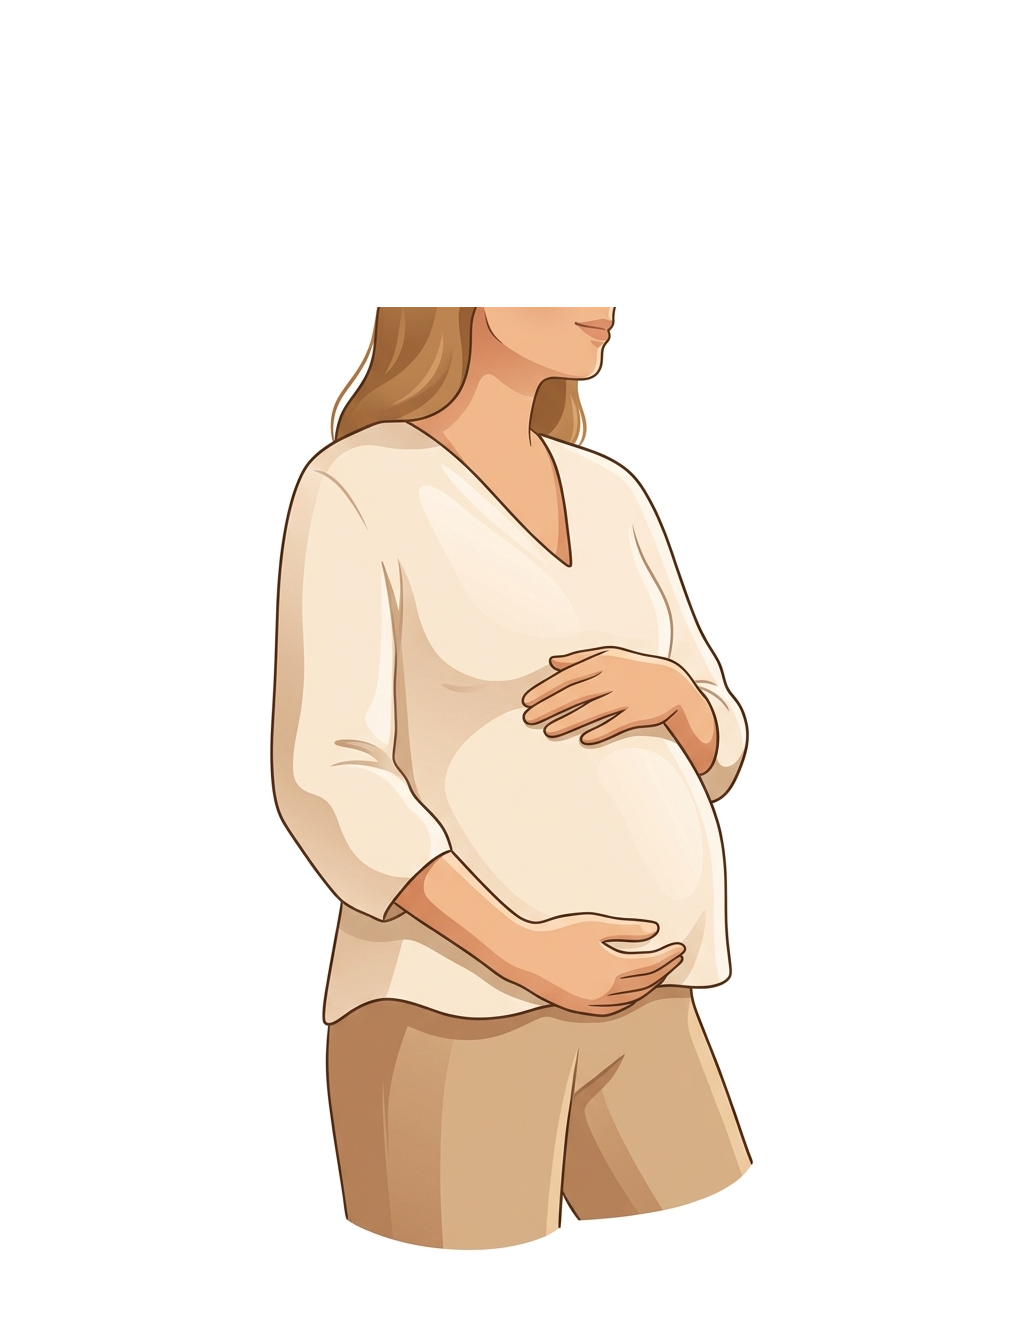
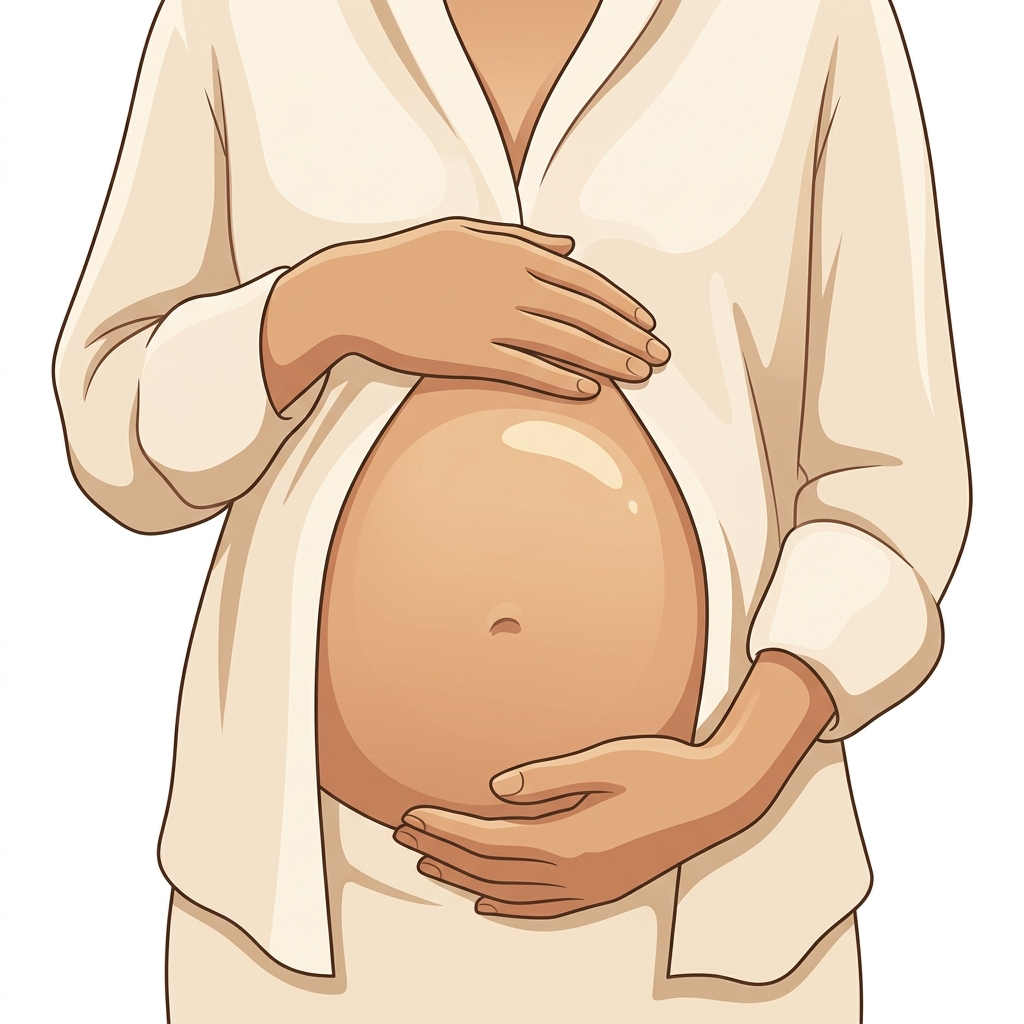
Hero-gestante: nova versão sem rosto (só barriga + mãos)
Bia decidiu trocar a composição inteira pra evitar o corte do rosto
e ficar mais íntima/universal: agora é close-up da barriga com as
duas mãos cradling, frame cortado no peito (sem cabeça, sem rosto).

Mais elegante e funciona pra qualquer mãe se identificar.
Cache buster v=5.

diff --git a/index.html b/index.html
@@ -15,7 +15,7 @@
 <!-- HERO -->
 <header class="hero">
   <div class="hero__inner">
-    <img src="assets/illustrations/hero-gestante.png?v=4" alt="" class="hero__illustration">
+    <img src="assets/illustrations/hero-gestante.png?v=5" alt="" class="hero__illustration">
     <p class="eyebrow">Guia de nutrição na gestação</p>
     <h1 class="hero__title">Dois corações,<br>uma mesa</h1>
     <p class="hero__sub">O que você come hoje molda a saúde de uma vida inteira. A sua, e a do seu filho.</p>